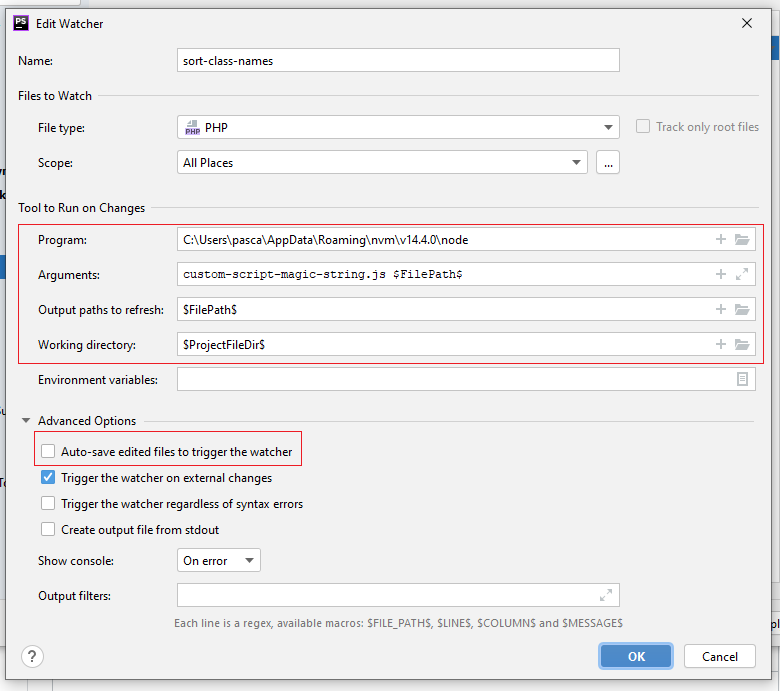
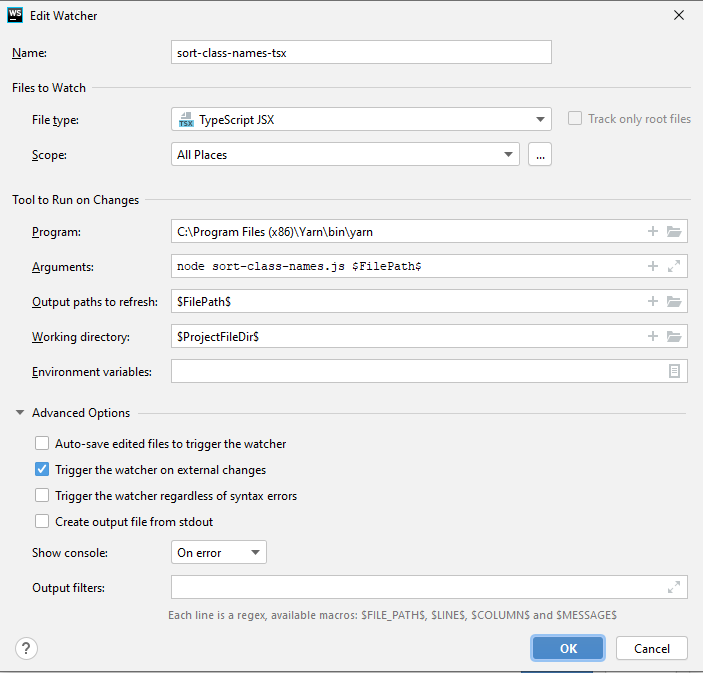
documentation angepasst + added prettier

diff --git a/sort-class-names.js b/sort-class-names.js
@@ -9,6 +9,7 @@ var __spreadArrays = (this && this.__spreadArrays) || function () {
 exports.__esModule = true;
 var magic_string_1 = require("magic-string");
 var fs = require("fs");
+var prettier_1 = require("prettier");
 var twClasses = Object.fromEntries(fs
     .readFileSync("sort-class-names-order-reference.csv", "utf8")
     .split("\n")
@@ -137,5 +138,6 @@ function sort(srcText) {
     return s.toString();
 }
 var fileName = process.argv[2];
-var newCodeContent = sort(fs.readFileSync(fileName, "utf8"));
+var oldCodeContent = fs.readFileSync(fileName, "utf8");
+var newCodeContent = sort(prettier_1.format(oldCodeContent, { parser: "babel" }));
 fs.writeFileSync(fileName, newCodeContent, "utf8");

diff --git a/sort-class-names.ts b/sort-class-names.ts
@@ -1,5 +1,6 @@
 import MagicString from "magic-string";
 import * as fs from "fs";
+import { format } from "prettier";
 
 type ClassNamePart = { type: "classNames" | "variable"; value: string };
 
@@ -164,6 +165,15 @@ function sort(srcText: string) {
 }
 
 const fileName = process.argv[2];
-const newCodeContent = sort(fs.readFileSync(fileName, "utf8"));
+const oldCodeContent = fs.readFileSync(fileName, "utf8");
+
+let config = {};
+try {
+  config = require("./prettier.config");
+} catch (e) {}
+
+const newCodeContent = sort(
+  format(oldCodeContent, { ...config, parser: "babel" })
+);
 
 fs.writeFileSync(fileName, newCodeContent, "utf8");

diff --git a/test-files/TestJsx.jsx b/test-files/TestJsx.jsx
@@ -1,0 +1,7 @@
+export function TestJsx() {
+  return (
+    <div>
+      <div className="mt-20 flex w-screen min-h-screen">asd - whatever :-)</div>
+    </div>
+  );
+}

diff --git a/README.md b/README.md
@@ -7,11 +7,13 @@ Neuen custom `File Watcher` erstellen via [Settings > Tools > File Watchers > `+
 
 ![](./docs/sort-class-name-via-intellij-file-watcher.png)
 
-1. `Program:` => path to node-binary
-2. `Arguments` 
-    - `sort-class-names.js` (script from this repo - you need to copy it into your workspace)
+1. `Program:` => path to yarn-binary (e.g. `C:\Program Files (x86)\Yarn\bin\yarn`)
+2. `Arguments`: `node sort-class-names.js $FilePath$`
+    - `node sort-class-names.js` (script from this repo - you need to copy it into your workspace)
     - (empty space to seperate the script from its argument)
     - `$FilePath$` which is the currently edited file
-3. `Output paths to refres:` => $FilePath$
-4. `Working Directory:` => $ProjectFileDir$ (so that the node-script can use the node_modules folder correctly with the correct wrking dir)
+3. `Output paths to refres:` => `$FilePath$`
+4. `Working Directory:` => `$ProjectFileDir$` (so that the node-script can use the node_modules folder correctly with the correct wrking dir)
+5. (ausklappen von "Working directory and Environment Variables")
 5. disable `Auto-save edited files to trigger the watcher`
+6. (make sure to not use prettier on save on this files)
